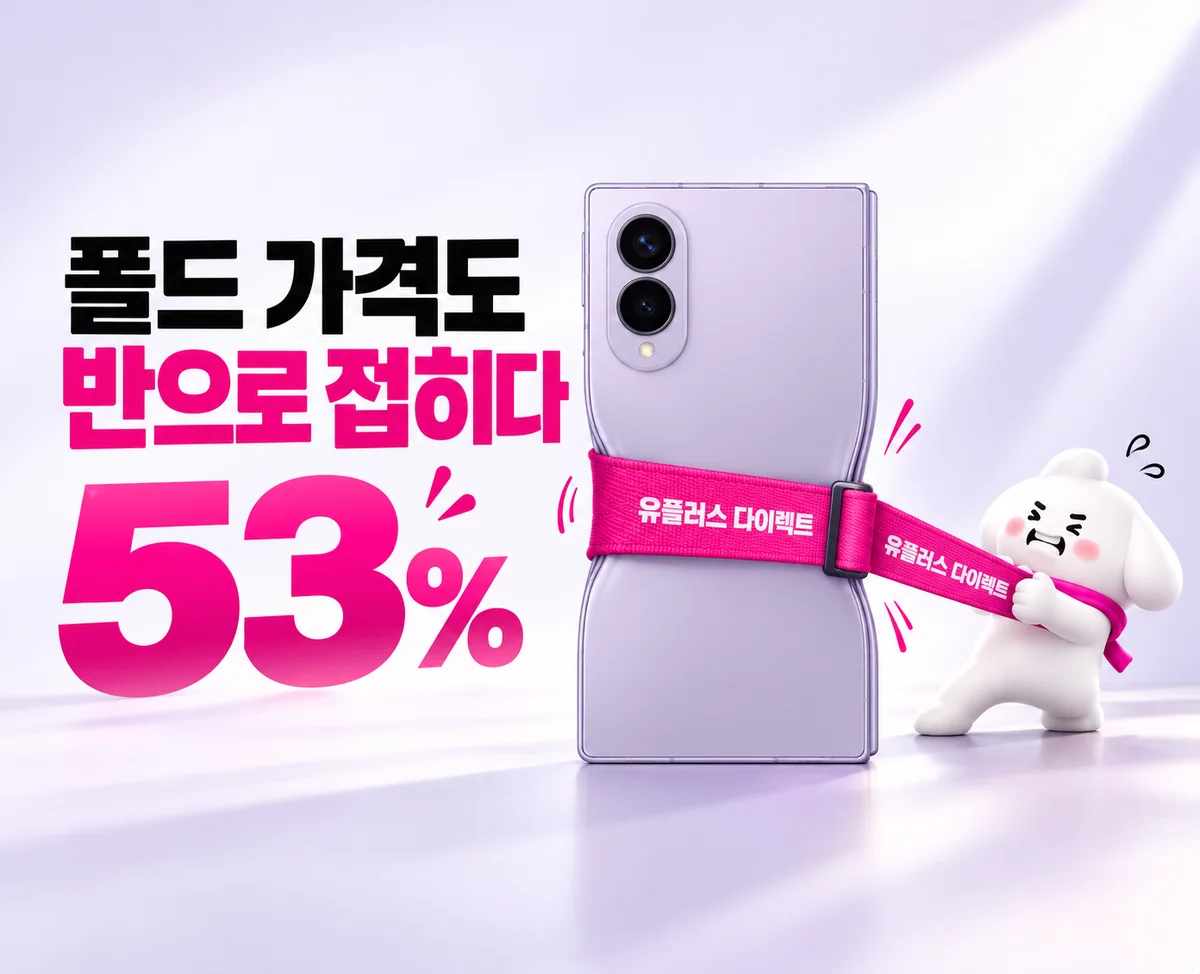
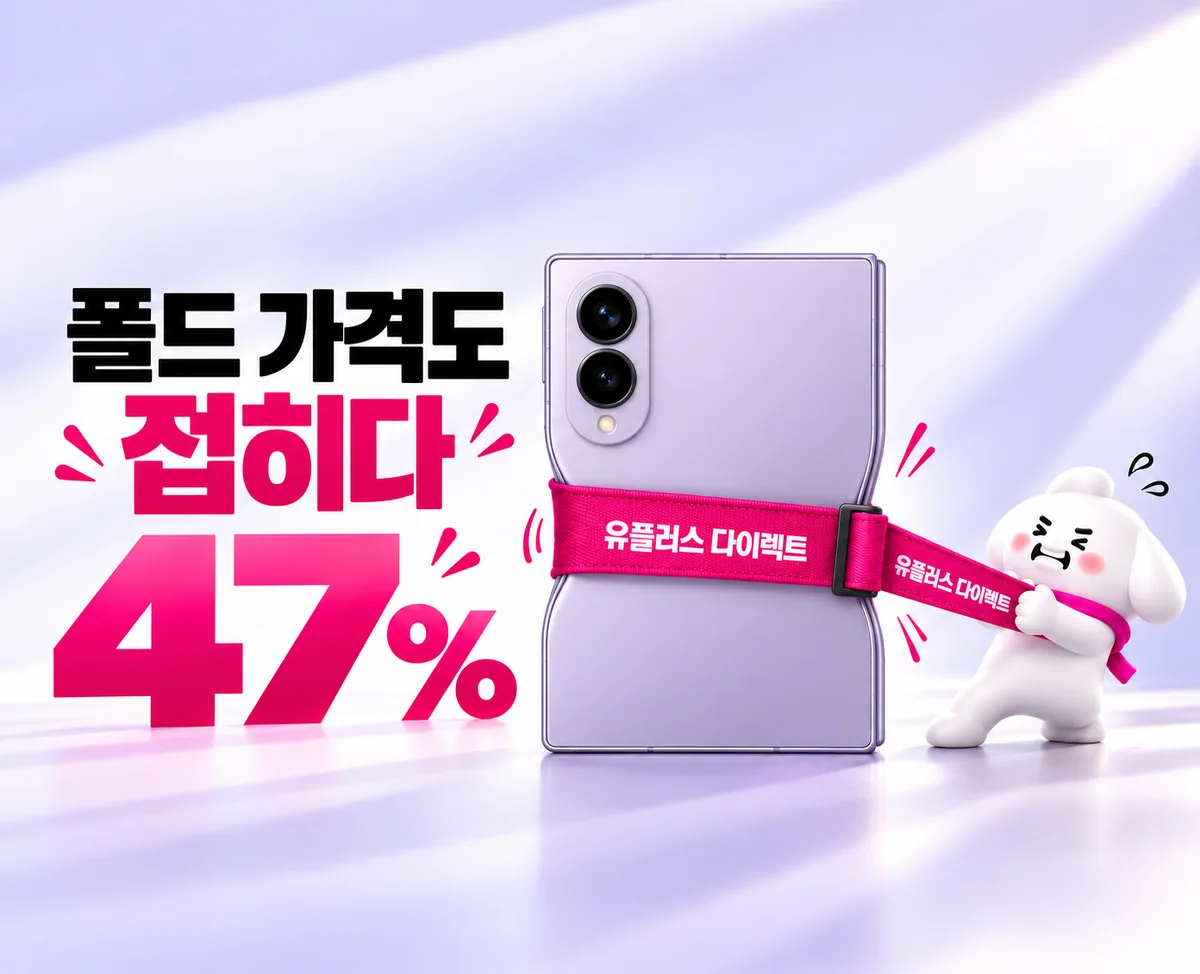
/shop 메인 배너 3번 교체: '폴드 가격도 접히다 47%' (바뀐 정책 기준, 사장님 통이미지)
- 같은 자리(banner/bn-03.webp)에 새 그림 → 1200×974 webp (50KB)
- 배너 이름도 '폴드 가격도 접히다 47%' 로 (전체보기 목록) · 누르면 폴드8 상세 그대로

Claude-Session: https://claude.ai/code/session_01UduFChukoFFwk18pDm4WUv

diff --git a/assets/shop/shop.js b/assets/shop/shop.js
@@ -251,7 +251,7 @@ function carSet(c, html, n, rn){ c.rn=rn||n; if(put($(c.o.track),html)){ c.n=n; 
 /* ---------- 홈: 메인 배너 (스토어 히어로 슬라이드 + 프로모 배너) ---------- */
 /* 20261023 사장님: 메인 배너는 사장님이 만든 통이미지(글씨까지 그림 안에 있는 배너)만 — 배너 위 글씨·어두운 그라데이션·바탕색 없이 그림 그대로
    20261026: 코드에 박혀 있던 배너를 관리자 설정(스토어 설정 bn)으로 옮김 → 관리자(/apple)에서 그림·순서·누르면 가는 곳·숨기기
-   처음 값(1 유플러스 다이렉트 · 2 통신이 쉬우면 안돼? · 3 폴드 가격도 반으로 접히다)은 store.js DEFAULT.bn · 그림은 assets/store/banner/ */
+   처음 값(1 유플러스 다이렉트 · 2 통신이 쉬우면 안돼? · 3 폴드 가격도 접히다 47%)은 store.js DEFAULT.bn · 그림은 assets/store/banner/ */
 function bannerList(){
   var S=A.S, out=A.vis(S.hero||[]).map(function(h){
     var m=modelOf(h.go);   // 설명이 비어 있으면 연결된 모델의 소개 문구 (관리자에 있는 그대로)

diff --git a/apple.html b/apple.html
@@ -34,7 +34,7 @@ window.STORE_CFG = {mode:'edit'};
   function boot(){
     document.getElementById('login').remove();
     // /shop 화면(shop.js)을 먼저 → 스토어 엔진 → 관리자 기능 → 가격표 순서로
-    var seq=(window.STORE_VIEW_STORE?[]:['/assets/shop/shop.js?v=20261026b']).concat(['/assets/store/store.js?v=20261026b','/assets/store/store-admin.js?v=20261026b','/assets/store/store-price.js?v=20261026b']);
+    var seq=(window.STORE_VIEW_STORE?[]:['/assets/shop/shop.js?v=20261026b']).concat(['/assets/store/store.js?v=20261026c','/assets/store/store-admin.js?v=20261026b','/assets/store/store-price.js?v=20261026b']);
     (function next(i){ if(i>=seq.length) return; var s=document.createElement('script'); s.src=seq[i]; s.onload=function(){ next(i+1); }; document.body.appendChild(s); })(0);
   }
   function sha(s){ return crypto.subtle.digest('SHA-256', new TextEncoder().encode(s)).then(function(b){ return Array.prototype.map.call(new Uint8Array(b),function(x){return ('0'+x.toString(16)).slice(-2)}).join(''); }); }

diff --git a/assets/store/store.js b/assets/store/store.js
@@ -34,7 +34,7 @@ var DEFAULT = {
   bn:[
     {img:'banner/bn-01.webp', nm:'유플러스 다이렉트 · U+ 최초의 온라인 대리점', go:'#/model/iphone18pro'},
     {img:'banner/bn-02.webp', nm:'통신이 쉬우면 안돼? · 유플러스 다이렉트', go:'#/model/fold8'},
-    {img:'banner/bn-03.webp', nm:'폴드 가격도 반으로 접히다 53%', go:'#/model/fold8'}
+    {img:'banner/bn-03.webp', nm:'폴드 가격도 접히다 47%', go:'#/model/fold8'}   // 20261026 사장님: 53% → 47% 그림으로 교체 (바뀐 정책 기준)
   ],
   deal:{on:true, title:'이번 주 특가', img:'hero/hero-02.webp', items:'fold8|73만원|47만원\nflip8|60만원|34만원\ns26|68만원|50만원\niphone17|50만원|24만원'},
   hero:[

diff --git a/galaxy_z8.html b/galaxy_z8.html
@@ -132,7 +132,7 @@ window.STORE_CFG = {mode:'view'};
   <p>워치 · 태블릿 · U+ tv 프리도 함께 구매할 수 있어요. 5분 상담, 서울·경기 매장 방문 수령 가능.</p>
   <p><a href="/about">왜 유플러스 다이렉트인가요?</a></p>
 </div>
-<script src="/assets/store/store.js?v=20261026b"></script>
+<script src="/assets/store/store.js?v=20261026c"></script>
 <!-- 이탈 분석(익명, 개인정보 없음) -->
 <script src="/assets/udak-funnel.js?v=20261021a" data-page="galaxy_z8" defer></script>
 </body>

diff --git a/shop.html b/shop.html
@@ -73,7 +73,7 @@ window.STORE_CFG = {mode:'view', srcTag:'/shop'};
 <body>
 <div id="storeRoot"></div>
 <script src="/assets/shop/shop.js?v=20261026b"></script>
-<script src="/assets/store/store.js?v=20261026b"></script>
+<script src="/assets/store/store.js?v=20261026c"></script>
 <!-- 이탈 분석(익명, 개인정보 없음) — page='shop' 으로 따로 기록 -->
 <script src="/assets/udak-funnel.js?v=20261022c" data-page="shop" defer></script>
 </body>
